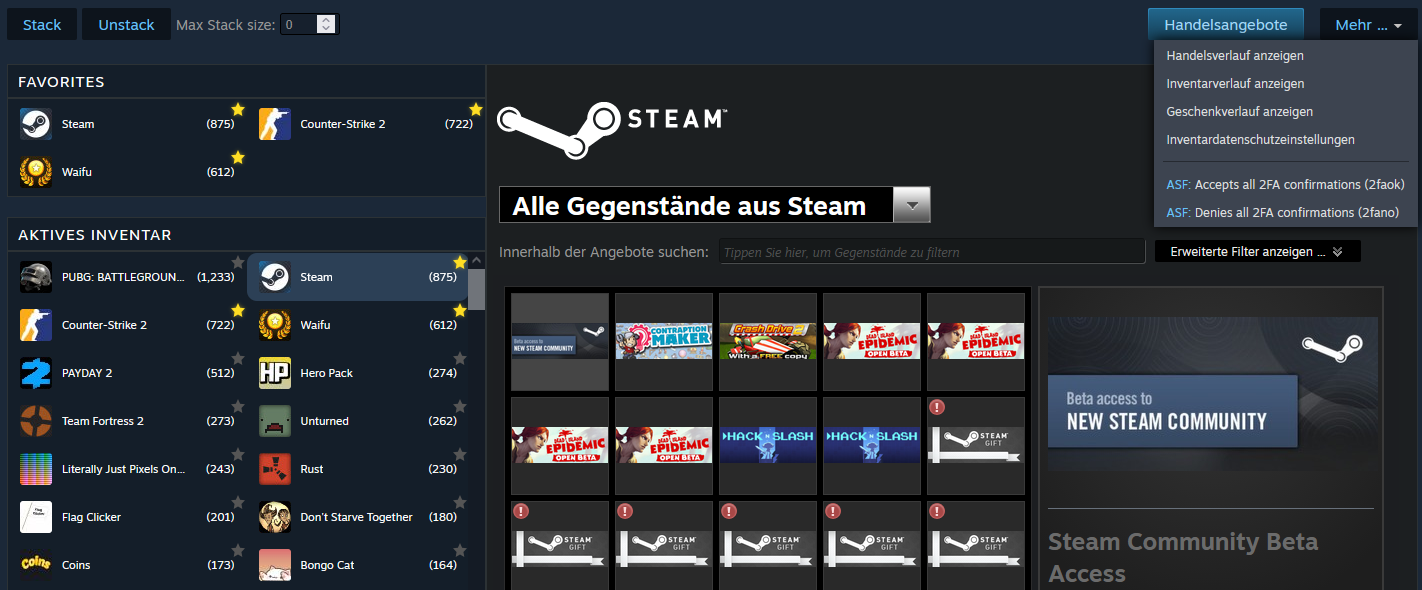
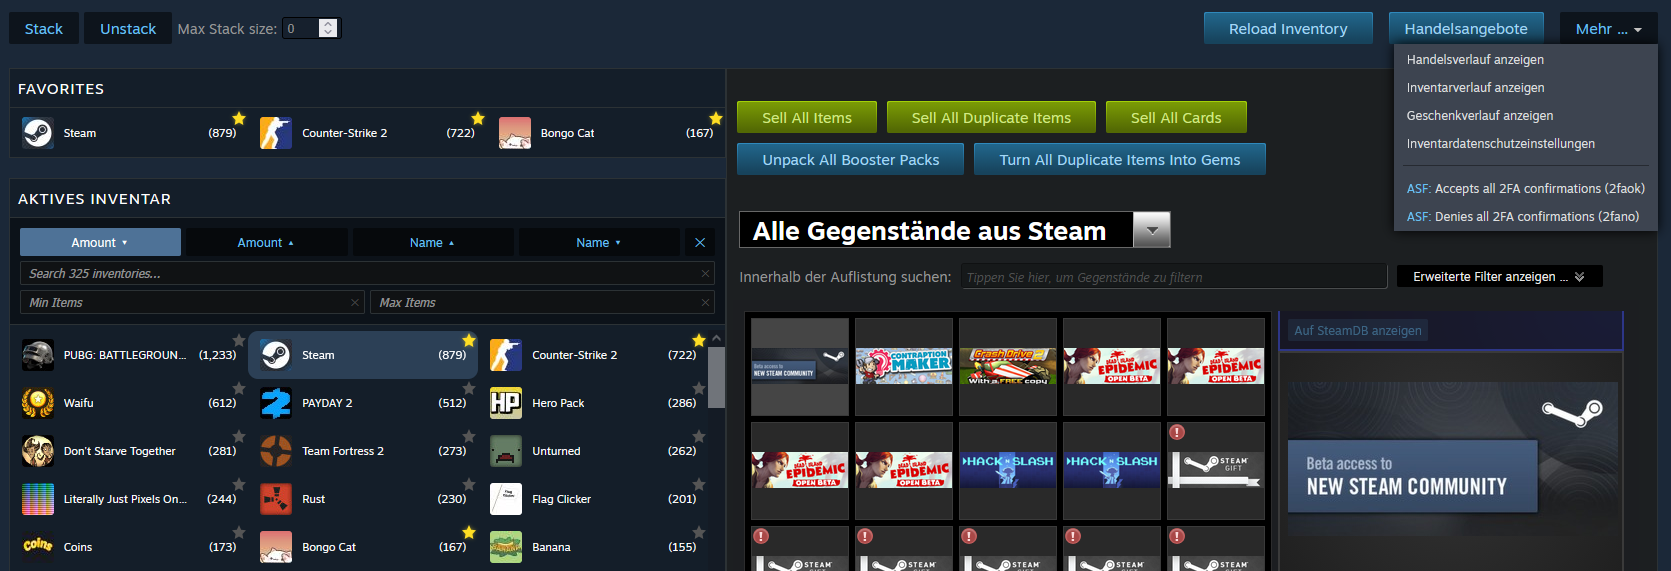
Small fixes and new functions

diff --git a/userscripts/Steam_Inventory_Enhancer/script.user.js b/userscripts/Steam_Inventory_Enhancer/script.user.js
@@ -1,7 +1,7 @@
 // ==UserScript==
 // @name            Steam Inventory Enhancer
 // @namespace       https://kurotaku.de
-// @version         1.1.1
+// @version         1.1.2
 // @description     Adds mass stacking/unstacking tools, a customizable sidebar with favorites, advanced inventory filtering/sorting, and ASF IPC integration for seamless 2FA confirmations.
 // @description:de  Fügt Tools zum Massen-Stapeln/Entstapeln, eine anpassbare Seitenleiste mit Favoriten, erweiterte Filter- und Sortierfunktionen für Inventare sowie eine ASF-IPC-Integration für 2FA-Bestätigungen hinzu.
 // @author          Kurotaku
@@ -185,13 +185,26 @@ class Sidebar {
 
             @media (min-width: 1450px) {
                 #BG_bottom, #mainContents {
-                    width: unset !important;
+                    width: max-content !important;
                     max-width: unset !important;
-                    display: grid !important;
                 }
 
-                #mainContents > *:not(.tabitems_ctn):not(#tabcontent_inventory) {
+                #mainContents {
+                    display: grid !important;
+                    grid-template-columns: auto 1fr;
+                }
+
+                #mainContents > * {
                     grid-column: 1 / span 2;
+                }
+
+                #mainContents > .tabitems_ctn {
+                    grid-column: 1;
+                }
+
+                #mainContents > #tabcontent_inventory {
+                    grid-column: 2;
+                    margin-top: unset;
                 }
 
                 #tabcontent_inventory {
@@ -204,6 +217,10 @@ class Sidebar {
                     overflow-y: auto;
                     overflow-x: hidden;
                     max-height: min(100vh, 600px);
+                }
+
+                #game_list_favorites {
+                    margin-top: unset;
                 }
             }
         `);
@@ -700,12 +717,16 @@ class Favorites {
                 background: rgba(255, 255, 255, 0.05);
                 box-shadow: none;
             }
+
+            #sie_favorites_list .sie_hidden_by_search {
+                display: flex !important;
+            }
         `);
     }
 
     // Waits for the Steam inventory sidebar and injects the "Favorites" section header and list container
     static async add_favorites_container() {
-        const tabcontainer = await wait_for_element(".tabitems_ctn");
+        const tab_container = await wait_for_element(".tabitems_ctn");
         const favorites_html = `
             <div id="game_list_favorites" class="games_list_separator responsive_hidden">
                 Favorites
@@ -713,7 +734,7 @@ class Favorites {
             <div class="games_list_tabs_ctn">
                 <div id="sie_favorites_list" class="games_list_tabs"></div>
             </div>`;
-        tabcontainer.insertAdjacentHTML('afterbegin', favorites_html);
+        tab_container.insertAdjacentHTML('afterbegin', favorites_html);
     }
 
     // Scrapes the existing game list to map AppIDs to their names, item counts, and DOM elements
@@ -879,8 +900,11 @@ class Filter {
 
     static async init() {
         const container = await wait_for_element("#games_list_public");
-        this.inject_controls(container);
+
+        // initial cache before UI injection to get the total count for the placeholder
         this.cache_elements();
+
+        this.inject_controls(container);
 
         // Load initial sort state or default to amount_desc
         const current_sort = GM_getValue("sie_filter_sort", "amount_desc");
@@ -892,6 +916,7 @@ class Filter {
 
     static inject_controls(container) {
         const active_sort = GM_getValue("sie_filter_sort", "amount_desc");
+        const total_count = this.app_data_cache.length;
 
         const filter_html = `
             <div id="sie_filter_controls">
@@ -906,17 +931,17 @@ class Filter {
                 </div>
 
                 <div class="sie_input_wrapper">
-                    <input type="text" id="sie_filter_search" placeholder="Search inventories..." autocomplete="off">
+                    <input type="text" id="sie_filter_search" placeholder="Search ${total_count} inventories..." autocomplete="off">
                     <span class="sie_clear_input" data-target="sie_filter_search">✕</span>
                 </div>
 
                 <div class="sie_filter_range">
                     <div class="sie_input_wrapper">
-                        <input type="text" id="sie_filter_min" placeholder="Min" autocomplete="off">
+                        <input type="text" id="sie_filter_min" placeholder="Min Items" autocomplete="off">
                         <span class="sie_clear_input" data-target="sie_filter_min">✕</span>
                     </div>
                     <div class="sie_input_wrapper">
-                        <input type="text" id="sie_filter_max" placeholder="Max" autocomplete="off">
+                        <input type="text" id="sie_filter_max" placeholder="Max Items" autocomplete="off">
                         <span class="sie_clear_input" data-target="sie_filter_max">✕</span>
                     </div>
                 </div>
@@ -957,7 +982,14 @@ class Filter {
 
     static cache_elements() {
         this.app_data_cache = [];
-        const tabs = document.querySelectorAll("#games_list_public a.games_list_tab");
+        // Selector expanded to include public, private and failed inventory sections
+        const selectors = [
+            "#games_list_public a.games_list_tab",
+            "#games_list_private a.games_list_tab",
+            "#games_list_failed a.games_list_tab"
+        ];
+
+        const tabs = document.querySelectorAll(selectors.join(", "));
 
         tabs.forEach(tab => {
             const name_el = tab.querySelector(".games_list_tab_name");
@@ -997,7 +1029,12 @@ class Filter {
         });
 
         // Append nodes in new order (DOM automatically moves existing elements)
-        sorted.forEach(item => container.appendChild(item.node));
+        // Note: sorting remains primarily visual for the public container as per legacy logic
+        sorted.forEach(item => {
+            if (item.node.parentElement) {
+                item.node.parentElement.appendChild(item.node);
+            }
+        });
     }
 
     static apply_filters() {
@@ -1032,14 +1069,14 @@ class Filter {
         window.addEventListener('keydown', (e) => {
             // Check for CTRL+F (Windows/Linux) or CMD+F (Mac)
             if ((e.ctrlKey || e.metaKey) && e.key === 'f') {
-                const searchInput = document.getElementById("sie_filter_search");
+                const search_input = document.getElementById("sie_filter_search");
 
-                if (searchInput) {
+                if (search_input) {
                     e.preventDefault(); // Prevent Browser Search
-                    searchInput.focus();
+                    search_input.focus();
 
                     // Select Text
-                    searchInput.select();
+                    search_input.select();
                 }
             }
         });
@@ -1255,8 +1292,16 @@ GM_addStyle(`
         display: none;
     }
 
-    .games_list_tabs_ctn {
+    .games_list_separator {
+        border-bottom: unset !important;
+    }
+
+    .games_list_separator,
+    .games_list_tabs_ctn{
         border: 1px solid #2c3235;
+    }
+
+    .games_list_tabs_ctn {
         padding: 0;
     }
 
